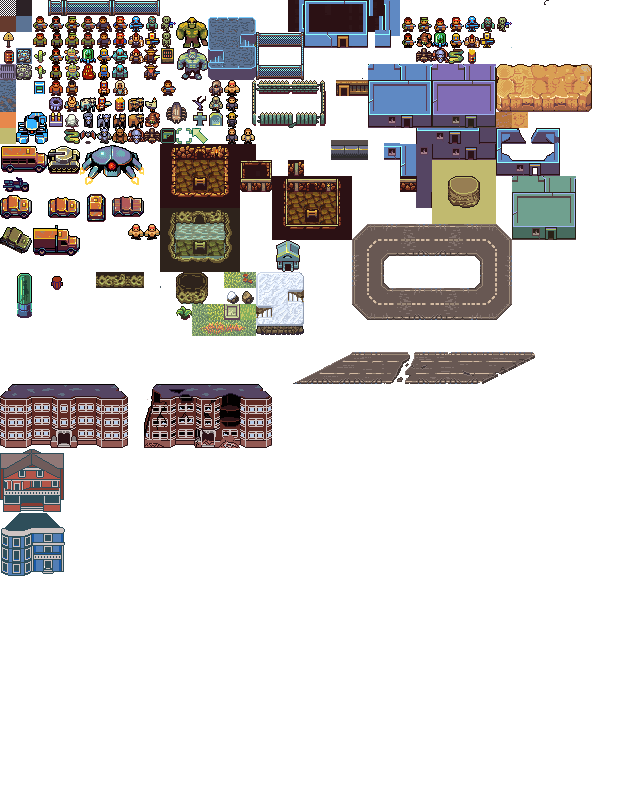
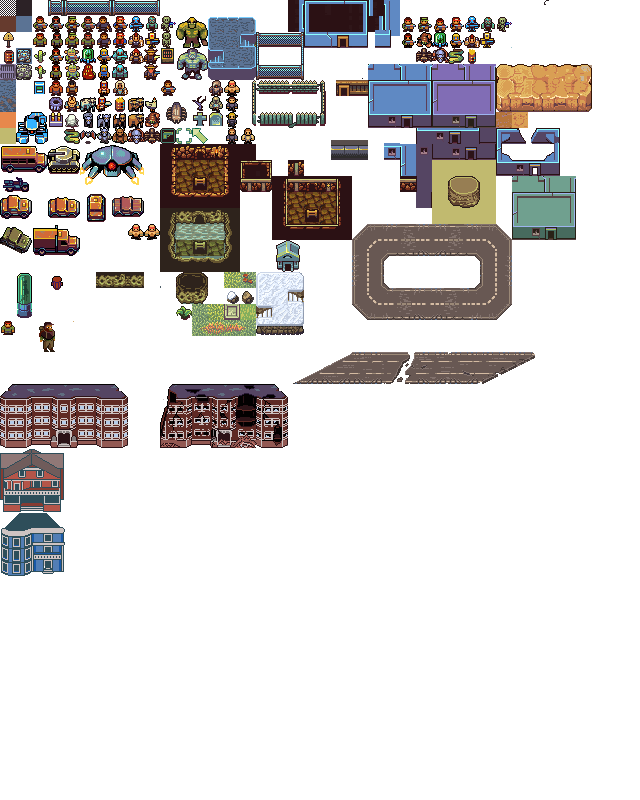
Forward and backward travel enabled. New graphics used for ruins and settlements. Working on making road start/end sprites auto used

Changed region(s): [[0.2188, 0.4688, 0.4688, 0.5625], [0.0625, 0.4062, 0.0938, 0.4375], [0.0, 0.4062, 0.0312, 0.4375]]

diff --git a/src/apps/ECS_Demo.cpp b/src/apps/ECS_Demo.cpp
@@ -557,35 +557,18 @@ int init_menus()
 	pause_button_c->button_->visible = false;
 	unpause_button_c->button_->visible = true;
 
-	auto go_button_c = UserInputUtils::create_button(bottom_side_state_menu_c->window_, HA_COLUMN, VA_CENTER, SP_NONE, UILayer::MID, "Go", 0, button_column, BUTTON_WIDTH, BUTTON_HEIGHT);
+	auto backward_button_c = UserInputUtils::create_button(bottom_side_state_menu_c->window_, HA_COLUMN, VA_CENTER, SP_NONE, UILayer::MID, "Backward", 0, button_column++, BUTTON_WIDTH, BUTTON_HEIGHT);
 	auto stop_button_c = UserInputUtils::create_button(bottom_side_state_menu_c->window_, HA_COLUMN, VA_CENTER, SP_NONE, UILayer::MID, "Rest", 0, button_column++, BUTTON_WIDTH, BUTTON_HEIGHT);
+	auto forward_button_c = UserInputUtils::create_button(bottom_side_state_menu_c->window_, HA_COLUMN, VA_CENTER, SP_NONE, UILayer::MID, "Forward", 0, button_column++, BUTTON_WIDTH, BUTTON_HEIGHT);
+	
+	
+	button_column++;
 
 	auto settlement_button_c = UserInputUtils::create_button(bottom_side_state_menu_c->window_, HA_COLUMN, VA_CENTER, SP_NONE, UILayer::MID, "Settlement", 0, button_column++, BUTTON_WIDTH, BUTTON_HEIGHT);
 	auto ruins_button_c = UserInputUtils::create_button(bottom_side_state_menu_c->window_, HA_COLUMN, VA_CENTER, SP_NONE, UILayer::MID, "Ruins", 0, button_column++, BUTTON_WIDTH, BUTTON_HEIGHT);
 	auto inv_button_c = UserInputUtils::create_button(bottom_side_state_menu_c->window_, HA_COLUMN, VA_CENTER, SP_NONE, UILayer::MID, "Inventory", 0, button_column++, BUTTON_WIDTH, BUTTON_HEIGHT);
 	auto status_button_c = UserInputUtils::create_button(bottom_side_state_menu_c->window_, HA_COLUMN, VA_CENTER, SP_NONE, UILayer::MID, "Status", 0, button_column++, BUTTON_WIDTH, BUTTON_HEIGHT);
-	stop_button_c->button_->visible = false;
-	/// Pace Selector Pop Up
-	/**
-	auto pace_pop_up_c = UserInputUtils::create_window_raw(bottom_side_state_menu_c->window_, 0, 0 - BUTTON_HEIGHT * 5, BUTTON_WIDTH*1.5, BUTTON_HEIGHT*5, UILayer::MID);
-	pace_pop_up_c->window_->h_align = HA_CENTER;
-	pace_pop_up_c->window_->visible = false;
-	std::function<void()> mg_toggle_pace_visible = std::bind(toggle_menu, pace_pop_up_c);
-	auto pace_label_box = UserInputUtils::create_label(pace_pop_up_c->window_, HA_CENTER, HA_CENTER, VA_ROW, SP_NONE, UILayer::TOP, "Select Pace", 0, 1, CHECK_BOX_WIDTH, BUTTON_HEIGHT);
-	auto ig_pace_0 = UserInputUtils::create_select_button(pace_pop_up_c->window_, HA_COLUMN, VA_ROW, SP_NONE, UILayer::TOP_2, "Slow", 1, 0, CHECK_BOX_WIDTH, BUTTON_HEIGHT);
-	auto pace_label_0 = UserInputUtils::create_label(pace_pop_up_c->window_, HA_CENTER, HA_CENTER, VA_ROW, SP_NONE, UILayer::TOP, "Slow", 1, 1, CHECK_BOX_WIDTH, BUTTON_HEIGHT);
-
-
-	auto ig_pace_1 = UserInputUtils::create_select_button(pace_pop_up_c->window_, HA_COLUMN, VA_ROW, SP_NONE, UILayer::TOP_2, "Medium", 2, 0, CHECK_BOX_WIDTH, BUTTON_HEIGHT);
-	auto pace_label_1 = UserInputUtils::create_label(pace_pop_up_c->window_, HA_CENTER, HA_CENTER, VA_ROW, SP_NONE, UILayer::TOP, "Medium", 2, 1, CHECK_BOX_WIDTH, BUTTON_HEIGHT);
-
-
-	auto ig_pace_2 = UserInputUtils::create_select_button(pace_pop_up_c->window_, HA_COLUMN, VA_ROW, SP_NONE, UILayer::TOP_2, "Fast", 3, 0, CHECK_BOX_WIDTH, BUTTON_HEIGHT);
-	auto pace_label_2 = UserInputUtils::create_label(pace_pop_up_c->window_, HA_CENTER, HA_CENTER, VA_ROW, SP_NONE, UILayer::TOP, "Fast", 3, 1, CHECK_BOX_WIDTH, BUTTON_HEIGHT);
-
-
-	bottom_side_state_menu_c->child_components_.push_back(pace_pop_up_c);
-	**/
+	
 
 	std::function<void()> set_pause_visible = std::bind(set_button_visible, pause_button_c);
 	std::function<void()> set_unpause_visible = std::bind(set_button_visible, unpause_button_c);
@@ -604,7 +587,7 @@ int init_menus()
 
 	Event_Component unpause_game_event;
 	unpause_game_event.e.func_event.callbacks.push_back(unpause_function);
-	unpause_game_event.e.func_event.callbacks.push_back(set_pause_visible);
+	unpause_game_event.e.func_event.callbacks.push_back(set_pause_visible); 
 	unpause_game_event.e.func_event.callbacks.push_back(set_unpause_invisible);
 	unpause_game_event.e.func_event.callbacks.push_back(update_pace);
 
@@ -622,27 +605,25 @@ int init_menus()
 
 
 	
-	std::function<void()> toggle_stop_visible = std::bind(toggle_button_visible, stop_button_c);
-	std::function<void()> toggle_go_visible = std::bind(toggle_button_visible, go_button_c);
 	
 
 	std::function<void()> stop_function = std::bind(set_property, SXNGN::OVERWORLD_GO, 0.0);
-	std::function<void()> go_function = std::bind(set_property, SXNGN::OVERWORLD_GO, 1.0);
+	std::function<void()> forward_function = std::bind(set_property, SXNGN::OVERWORLD_GO, 1.0);
+	std::function<void()> reverse_function = std::bind(set_property, SXNGN::OVERWORLD_GO, -1.0);
 
 	
 	bottom_side_state_menu_c->child_components_.push_back(pause_button_c);
 	bottom_side_state_menu_c->child_components_.push_back(unpause_button_c);
 
 	stop_button_c->callback_functions_.push_back(stop_function);
-	stop_button_c->callback_functions_.push_back(toggle_stop_visible);
-	stop_button_c->callback_functions_.push_back(toggle_go_visible);
 	stop_button_c->callback_functions_.push_back(update_pace);
-	go_button_c->callback_functions_.push_back(go_function);
-	go_button_c->callback_functions_.push_back(toggle_stop_visible);
-	go_button_c->callback_functions_.push_back(toggle_go_visible);
-	go_button_c->callback_functions_.push_back(update_pace);
+	forward_button_c->callback_functions_.push_back(forward_function);
+	backward_button_c->callback_functions_.push_back(reverse_function);
+	forward_button_c->callback_functions_.push_back(update_pace);
+	backward_button_c->callback_functions_.push_back(update_pace);
 	bottom_side_state_menu_c->child_components_.push_back(stop_button_c);
-	bottom_side_state_menu_c->child_components_.push_back(go_button_c);
+	bottom_side_state_menu_c->child_components_.push_back(forward_button_c);
+	bottom_side_state_menu_c->child_components_.push_back(backward_button_c);
 	bottom_side_state_menu_c->child_components_.push_back(settlement_button_c);
 	bottom_side_state_menu_c->child_components_.push_back(ruins_button_c);
 	bottom_side_state_menu_c->child_components_.push_back(inv_button_c);
@@ -655,42 +636,7 @@ int init_menus()
 		
 	std::function<void()> set_pace_medium = std::bind(set_property, SXNGN::OVERWORLD_PACE_M_S, 1.25);
 	set_pace_medium();
-	/**
-	//set the pace value
-	std::function<void()> set_pace_stop = std::bind(set_property, SXNGN::OVERWORLD_PACE_M_S, 0.0);
-	std::function<void()> set_pace_slow = std::bind(set_property, SXNGN::OVERWORLD_PACE_M_S, 1.0);
-	
-	std::function<void()> set_pace_fast = std::bind(set_property, SXNGN::OVERWORLD_PACE_M_S, 1.5);
 
-	pace_pop_up_c->child_components_.push_back(ig_pace_0);
-	pace_pop_up_c->child_components_.push_back(ig_pace_1);
-	pace_pop_up_c->child_components_.push_back(ig_pace_2);
-
-	
-	//unselect all the other toggles
-	std::function<void()> set_pace_0 = std::bind(exclusive_select, pace_pop_up_c->child_components_, 0);
-	std::function<void()> set_pace_1 = std::bind(exclusive_select, pace_pop_up_c->child_components_, 1);
-	std::function<void()> set_pace_2 = std::bind(exclusive_select, pace_pop_up_c->child_components_, 2);
-
-	pace_pop_up_c->child_components_.push_back(pace_label_0);
-	pace_pop_up_c->child_components_.push_back(pace_label_1);
-	pace_pop_up_c->child_components_.push_back(pace_label_2); 
-	pace_pop_up_c->child_components_.push_back(pace_label_box);
-
-	ig_pace_0->callback_functions_.push_back(set_pace_slow);
-	ig_pace_1->callback_functions_.push_back(set_pace_medium);
-	ig_pace_2->callback_functions_.push_back(set_pace_fast);
-
-	ig_pace_0->callback_functions_.push_back(set_pace_0);
-	ig_pace_1->callback_functions_.push_back(set_pace_1);
-	ig_pace_2->callback_functions_.push_back(set_pace_2);
-
-
-	for (auto f : ig_pace_1->callback_functions_)
-	{
-		f();
-	}
-	**/
 
 	//************************* Right Side Status Menus
 

diff --git a/lib/SXNGN/cpp/ECS/Utilities/Map_Utils.cpp b/lib/SXNGN/cpp/ECS/Utilities/Map_Utils.cpp
@@ -165,10 +165,17 @@ namespace SXNGN::ECS {
 		auto gCoordinator = Database::get_coordinator();
 		Entity world_map_entity = gCoordinator->CreateEntity();
 		WorldMap* world_map_component = new WorldMap();
+		int col_idx = 0;
+		int row_idx = 0;
 		
+		int num_rows = new_world_map.size();
 		for (auto row : new_world_map)
 		{
+			bool currently_drawing_road = false;
 			std::vector< std::vector < sole::uuid> > uuids_this_row;
+			int num_cols = row.size();
+			//FIXME algo to determine road end does not work.
+			//Need to check every map location in the column not just the one that happens to ebe a road
 			for (auto column : row)
 			{
 				std::vector<sole::uuid> uuids_this_at_this_location;
@@ -191,7 +198,12 @@ namespace SXNGN::ECS {
 					pre_render->sprite_factory_sprite_type_ = "UNINIT";
 					if (world_location->has_ruins_)
 					{
-						pre_render->sprite_factory_sprite_type_ = "RUIN_CAR";
+						auto sprite_factory_holder = SpriteFactoryHolder::get_instance();
+						pre_render->sprite_factory_sprite_type_ = "RED_BRICK_RUINED";
+						auto sprite_factory = sprite_factory_holder->sprite_factories_["APOCALYPSE_MAP"];
+						auto sprite_height = sprite_factory->tile_name_string_to_rect_map_["RED_BRICK_RUINED"]->h;
+						location->m_pos_y_m_ -= sprite_height;
+
 					}
 					else if (world_location->has_settlement_)
 					{
@@ -205,18 +217,66 @@ namespace SXNGN::ECS {
 						market->inventory_[ItemType::KALNOTE] = 10000.0;
 						market->inventory_[ItemType::MEDKIT] = 100.0;
 						gCoordinator->AddComponent(location_entity, market);
-						pre_render->sprite_factory_sprite_type_ = "SHRINE";
+						pre_render->sprite_factory_sprite_type_ = "RED_BRICK";
+
+						auto sprite_factory_holder = SpriteFactoryHolder::get_instance();
+						auto sprite_factory = sprite_factory_holder->sprite_factories_["APOCALYPSE_MAP"];
+						auto sprite_height = sprite_factory->tile_name_string_to_rect_map_["RED_BRICK"]->h;
+						location->m_pos_y_m_ -= sprite_height;
 					}
 					else if (world_location->traversal_cost_m_s_ == WORLD_ROAD_PENALTY_PACE_M_S)
 					{
 						pre_render->scale_x_ = 1.0;
 						pre_render->scale_y_ = 1.0;
 						std::vector < std::string > sprite_row;
-						for (int i = 0; i < SXNGN::OVERWORLD_PIXELS_PER_GRID; i += (pre_render->scale_x_ * 32))
+						int road_start_idx = 0;
+						bool end_of_road = false;
+						//use the road start piece if this is start of new road
+						if(!currently_drawing_road)
 						{
-							int ran_num = 0 + (rand() % 3);
-							sprite_row.push_back("ROAD_ISO_" + std::to_string(ran_num));
+							sprite_row.push_back("ROAD_START");
+							currently_drawing_road = true;
+							road_start_idx = 32; //already filled in the start space for this grid 
+							//fill in the rest of the grid with road pieces
+							
 						}
+						else
+						{
+							road_start_idx = 0;
+						}
+						//if the next map grid does not have a road
+						if(col_idx + 1 < num_cols && column[col_idx+1]->traversal_cost_m_s_ != WORLD_ROAD_PENALTY_PACE_M_S)
+						{
+							end_of_road = true;
+						}
+						for (int i = road_start_idx; i < SXNGN::OVERWORLD_PIXELS_PER_GRID; i += (pre_render->scale_x_ * 32))
+						{
+							int ran_num = 0 + (rand() % 10);
+							std::string road_type = "";
+							if(ran_num > 8)
+							{
+								road_type = "ROAD_MID_BREAK";
+							}
+							else if(ran_num > 6)
+							{
+								road_type = "ROAD_MID_RUIN_1";
+							}
+							else if(ran_num > 4)
+							{
+								road_type = "ROAD_MID_RUIN_2";
+							}
+							else
+							{
+								road_type = "ROAD_MID";
+							}
+							sprite_row.push_back(road_type);
+						}
+						if(end_of_road)
+						{
+							sprite_row.at(sprite_row.size()) == "ROAD_END";
+						}
+						
+						
 						pre_render->sprite_factory_sprite_type_ = "NONE";
 						
 						pre_render->sprite_batch_.push_back(sprite_row); //FIXME memory leak
@@ -228,10 +288,12 @@ namespace SXNGN::ECS {
 					}
 					gCoordinator->AddComponent(location_entity, pre_render);
 					gCoordinator->AddComponent(location_entity, Create_Gamestate_Component_from_Enum(ComponentTypeEnum::OVERWORLD_STATE));
-					
+					col_idx++;
 				}
 				uuids_this_row.push_back(uuids_this_at_this_location);
+				row_idx++;
 			}
+			
 			world_map_component->world_locations_.push_back(uuids_this_row);
 		}
 		gCoordinator->AddComponent(world_map_entity, world_map_component);

diff --git a/lib/SXNGN/cpp/ECS/Systems/PartySystem.cpp b/lib/SXNGN/cpp/ECS/Systems/PartySystem.cpp
@@ -80,11 +80,11 @@ namespace SXNGN::ECS
 
 				if (pace_go.second && pace_penalty_overworld.second)
 				{
-					double pace_m_s = pace_go.first * PARTY_PACE_NOMINAL_M_S - pace_penalty_overworld.first - party_ptr->encumbrance_penalty_m_s_;
+					double pace_m_s = abs(pace_go.first) * PARTY_PACE_NOMINAL_M_S - pace_penalty_overworld.first - party_ptr->encumbrance_penalty_m_s_;
 					party_status_oss << "Traveling at " << std::fixed << std::setprecision(2) << pace_m_s << " M/S" << std::endl;
 					party_status_oss << "  Terrain: " << std::fixed << std::setprecision(2) << pace_penalty_overworld.first << " M/S" << std::endl;
 					party_status_oss << "  Weight: " << std::fixed << std::setprecision(2) << party_ptr->encumbrance_penalty_m_s_ << " M/S" << std::endl;
-					gCoordinator.setSetting(OVERWORLD_PACE_M_S, pace_m_s);
+					gCoordinator.setSetting(OVERWORLD_PACE_M_S, abs(pace_m_s));
 					double game_seconds_passed = dt * OVERWORLD_MULTIPLIER;
 					auto pace_value_label = ui_single->string_to_ui_map_["OVERWORLD_label_pace"];
 
@@ -95,7 +95,7 @@ namespace SXNGN::ECS
 						
 					std::ostringstream oss;
 					
-					bool moving = pace_go.first;
+					bool moving = abs(pace_go.first);
 					bool sick = party_ptr->sick_counter_s_ > 0.0;
 					bool lost = party_ptr->lost_counter_ > 0.0;
 					bool have_food = party_ptr->inventory_[ItemType::FOOD] >= 0.0;

diff --git a/lib/SXNGN/cpp/ECS/Systems/UserInputSystem.cpp b/lib/SXNGN/cpp/ECS/Systems/UserInputSystem.cpp
@@ -89,28 +89,6 @@ namespace SXNGN::ECS {
 							}
 						}
 					}
-					/**
-					if (input_tags.input_tags_.count(User_Input_Tags::PROPERTY_CONTROL_MOVEMENT))
-					{
-						auto db_comp = DatabaseComponent::get_instance();
-						if (db_comp->settings_map.count(input_tags.property_tag_) > 0)
-						{
-							auto check_out_move = gCoordinator.CheckOutComponent(entity_interest, ComponentTypeEnum::MOVEABLE);
-							if (check_out_move)
-							{
-								Moveable* moveable_ptr = static_cast<Moveable*>(check_out_move);
-								double speed = db_comp->settings_map.at(input_tags.property_tag_);
-								double stop_or_go = 0.0;
-								if (db_comp->settings_map.count(SXNGN::OVERWORLD_GO) > 0)
-								{
-									stop_or_go = db_comp->settings_map.at(SXNGN::OVERWORLD_GO);
-								}
-								moveable_ptr->m_vel_x_m_s = speed * stop_or_go; //fixme make stop_or_go more flexible
-								gCoordinator.CheckInComponent(ComponentTypeEnum::MOVEABLE, entity_interest);
-							}
-						}
-					}
-					**/
 				}
 				
 				

diff --git a/lib/SXNGN/cpp/ECS/Systems/DirectorSystem.cpp b/lib/SXNGN/cpp/ECS/Systems/DirectorSystem.cpp
@@ -113,10 +113,6 @@ namespace SXNGN::ECS
 				if (at_settlement)
 				{
 					auto overworld_player_entity = gCoordinator.GetEntityFromUUID(overworld_player_uuid);
-
-						
-					
-
 					std::function<void()> trade_with_inv = [overworld_player_entity, settlement_entity]()
 					{
 						TradeHelper* trade_helper = new TradeHelper();
@@ -151,7 +147,7 @@ namespace SXNGN::ECS
 
 
 				auto pace_go = gCoordinator.getSetting(SXNGN::OVERWORLD_PACE_TOTAL_M_S);
-				bool moving = pace_go.first > 0.0;
+				bool moving = abs(pace_go.first) > 0.0;
 				bool scavenging = false;
 				bool towning = false;
 				if (moving || scavenging || towning)
